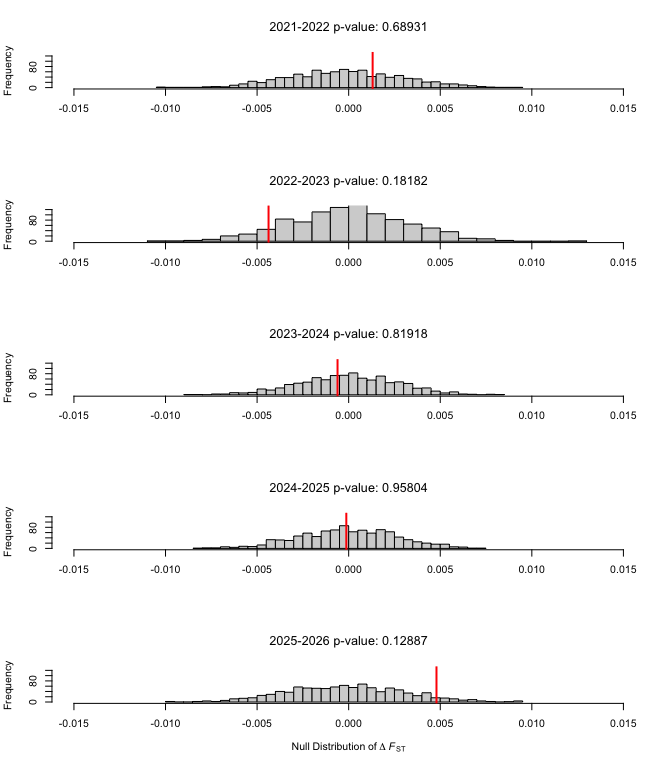
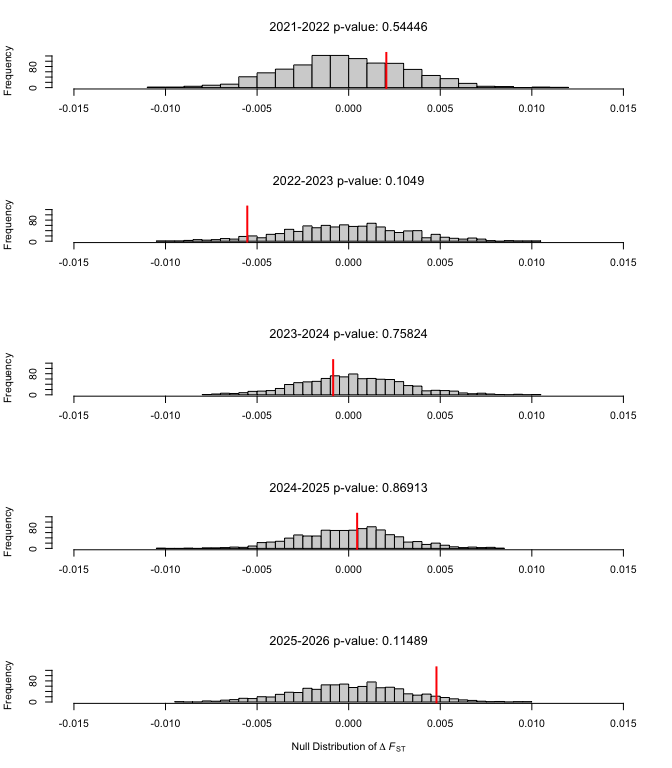
revise main function

diff --git a/delta-fst-white-gro.md b/delta-fst-white-gro.md
@@ -12,7 +12,7 @@ Tyler McCraney
 | Voights_C_H_Fall_08HZ_Baseline      | 42  |
 
 The 1998 baseline samples were excluded because there was high missing
-data and I could not determine if they were hatchery or natural origin.
+data.
 
 #### White River NORs (2021-2026) with genetic stock assignments.
 
@@ -42,9 +42,12 @@ data and I could not determine if they were hatchery or natural origin.
 FST was estimated each year by taking a random sample of n=100 White
 River NORs (without regards to DFW genetic stock assignments) and a
 random sample of n=100 GRO fall baseline fish (from the N=122 fish
-available in the pooled 2008, 2010, and 2012 baseline collections). So,
-there were a total of 6 FST estimates that were made over 2021 to 2026
-between White River NORs and GRO fall run.
+available in the pooled 2008, 2010, and 2012 baseline collections).
+EDIT: the same sample of n=100 GRO fall baseline fish was used for all 6
+estimates. I reasoned that this was better than the ‘moving target’
+situation I had originally used. There were a total of 6 FST estimates
+that were made over 2021 to 2026 between White River NORs and GRO fall
+run.
 
 The 95% CIs for FSTs were constructed by bootstrapping. The
 distributions of FST estimates with 95% CIs are plotted below. FST
